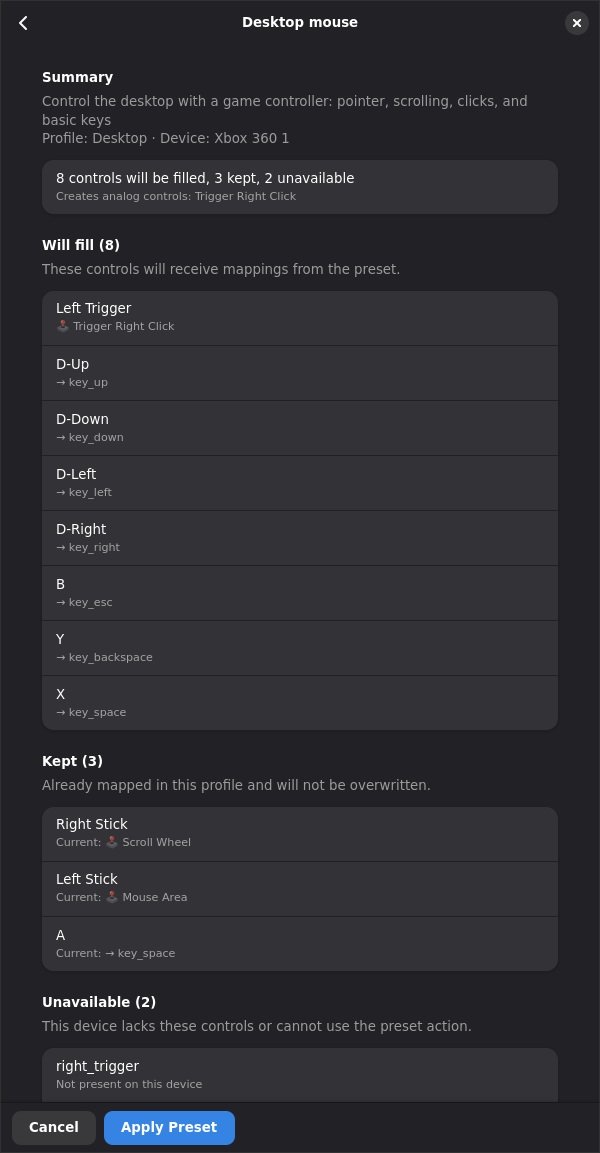
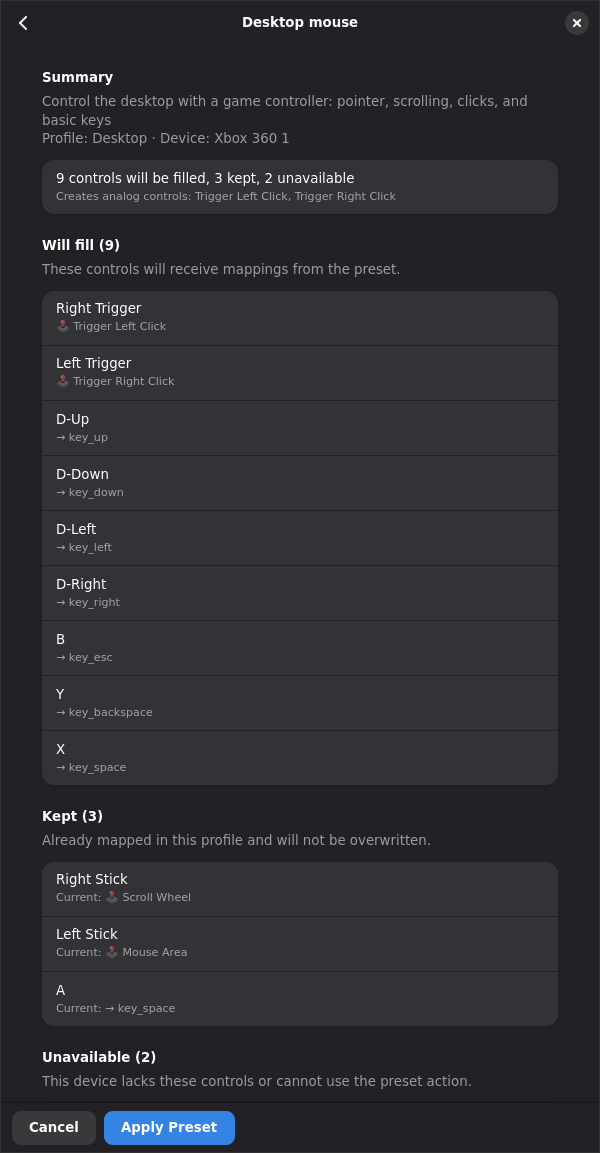
Map the right trackpad in the Desktop mouse preset and tidy the preview
The bundled preset maps right_trackpad to an embedded Touchpad Mouse
analog control, which the Steam Deck hardware preset provides.

The preview lists unavailable controls in one row per reason, with
readable names for controls the device lacks.

The screenshot fixture pad gains a right trigger.

diff --git a/tests/session/test_presets.py b/tests/session/test_presets.py
@@ -7,6 +7,7 @@ from keymasq.common.model.actions import MappingAction
 from keymasq.common.model.analog import AnalogControlConfig, AnalogMouseMotionConfig
 from keymasq.common.model.core import ActionType, DeviceType
 from keymasq.common.model.hardware import (
+    AnalogAxisDefinition,
     AnalogInputDefinition,
     ButtonDefinition,
     EvdevDevice,
@@ -14,6 +15,7 @@ from keymasq.common.model.hardware import (
 )
 from keymasq.common.model.profiles import ProfileConfig
 from keymasq.session.analog_controls import AnalogControlManager
+from keymasq.session.hardware_presets import apply_hardware_preset, load_hardware_presets
 from keymasq.session.presets import (
     apply_preset,
     load_presets,
@@ -257,6 +259,56 @@ def test_every_bundled_preset_loads():
 
     assert bundled
     assert sorted(p.preset_id for p in load_presets([paths.BUNDLED_PRESETS_DIR])) == bundled
+
+
+def test_bundled_desktop_preset_fills_the_controls_of_the_bundled_steam_deck_layout(
+    temp_config_dir,
+):
+    hardware = HardwareConfig(
+        "28de",
+        "1205",
+        "Steam Deck",
+        [EvdevDevice("/dev/input/event0", DeviceType.GAMEPAD, "pad")],
+        [ButtonDefinition(id="btn_south", label="A", evdev="btn_south", source="pad")],
+        analog_inputs=[
+            AnalogInputDefinition(
+                id=f"hat_{index}",
+                label=f"Hat {index + 1}",
+                type="stick",
+                source="pad",
+                axes=[
+                    AnalogAxisDefinition("x", f"abs_hat{index}x", minimum=low, maximum=32767),
+                    AnalogAxisDefinition("y", f"abs_hat{index}y", minimum=low, maximum=32767),
+                ],
+            )
+            for index, low in enumerate((-32767, -32767, 0))
+        ],
+    )
+    deck_layout = load_hardware_presets([paths.BUNDLED_HARDWARE_PRESETS_DIR])[0]
+    apply_hardware_preset(deck_layout, hardware)
+    desktop = next(
+        preset
+        for preset in load_presets([paths.BUNDLED_PRESETS_DIR])
+        if preset.preset_id == "gamepad-desktop-mouse"
+    )
+
+    plan = _apply(desktop, ProfileConfig(name="Desk"), hardware)
+
+    assert {
+        source: action.analog_control_name
+        for source, action in plan.mappings.items()
+        if action.action_type == ActionType.ANALOG_CONTROL
+    } == {
+        "right_trackpad": "Touchpad Mouse",
+        "left_trigger": "Trigger Right Click",
+        "right_trigger": "Trigger Left Click",
+    }
+    touchpad = AnalogControlManager().get_analog_control("Touchpad Mouse")
+    assert touchpad is not None
+    assert (touchpad.mouse_motion.mode, touchpad.mouse_motion.area_input_style) == (
+        "area",
+        "touchpad",
+    )
 
 
 def test_presets_are_offered_by_device_type_and_model_with_model_specific_first(tmp_path):

diff --git a/keymasq/gui/widgets/device_tab/preset_dialog.py b/keymasq/gui/widgets/device_tab/preset_dialog.py
@@ -1,6 +1,7 @@
 from __future__ import annotations
 
 import copy
+import re
 from collections.abc import Callable
 
 import gi
@@ -10,6 +11,7 @@ gi.require_version("Adw", "1")
 
 from gi.repository import Adw, GLib, Gtk  # pyright: ignore[reportAttributeAccessIssue]
 
+from keymasq.common.controller_capabilities import controller_control_label
 from keymasq.common.model.analog import AnalogControlConfig
 from keymasq.common.model.hardware import HardwareConfig
 from keymasq.common.model.profiles import DeviceProfileLayer
@@ -56,8 +58,11 @@ def _hardware_control_labels(hardware: HardwareConfig) -> dict[str, str]:
     return labels
 
 
-def preset_control_label(hardware: HardwareConfig, source_id: str) -> str:
-    return _hardware_control_labels(hardware).get(source_id, source_id)
+def _missing_control_label(source_id: str) -> str:
+    hat = re.fullmatch(r"hat_(\d+)", source_id)
+    if hat is not None:
+        return f"Hat {int(hat.group(1)) + 1}"
+    return controller_control_label(source_id)
 
 
 def empty_plan_summary(plan: PresetPlan) -> str:
@@ -297,15 +302,17 @@ class ApplyPresetDialog(Adw.Dialog):
                 title=f"Unavailable ({len(plan.unavailable)})",
                 description="This device lacks these controls or cannot use the preset action.",
             )
+            reasons: dict[str, list[str]] = {}
             for source_id in plan.unavailable:
-                subtitle = (
+                label = control_labels.get(source_id)
+                reason = (
                     "Incompatible action for this control"
-                    if source_id in control_labels
+                    if label is not None
                     else "Not present on this device"
                 )
-                unavailable_group.add(
-                    _action_row(control_labels.get(source_id, source_id), subtitle)
-                )
+                reasons.setdefault(reason, []).append(label or _missing_control_label(source_id))
+            for reason, labels in reasons.items():
+                unavailable_group.add(_action_row(reason, ", ".join(labels)))
             page.add(unavailable_group)
 
         toolbar.set_content(page)

diff --git a/nix/docshots/seed.py b/nix/docshots/seed.py
@@ -498,6 +498,13 @@ def _seed_hardware(config_dir: Path, devices: Json) -> None:
                             "source": "joystick",
                             "axes": [{"role": "value", "evdev": "abs_z"}],
                         },
+                        {
+                            "id": "right_trigger",
+                            "label": "Right Trigger",
+                            "type": "axis",
+                            "source": "joystick",
+                            "axes": [{"role": "value", "evdev": "abs_rz"}],
+                        },
                     ],
                 },
             }

diff --git a/tests/gui/test_apply_preset_gui.py b/tests/gui/test_apply_preset_gui.py
@@ -351,8 +351,8 @@ def test_preview_shows_fill_kept_unavailable_and_writes_only_on_confirm(
     assert "B Button" in preview_text
     assert "Right Stick" in preview_text
     assert "A Button" in preview_text
-    assert "btn_mode" in preview_text
-    assert "Left Trigger" in preview_text
+    assert "Not present on this device\nGuide" in preview_text
+    assert "Incompatible action for this control\nLeft Trigger" in preview_text
 
     saved_before = ProfileManager().get_profile("Desk")
     assert saved_before is not None

diff --git a/docs/presets.md b/docs/presets.md
@@ -11,7 +11,15 @@ freely, with no ongoing link to the preset file.
 
 Keymasq ships with a bundled **Desktop mouse** preset
 (`gamepad-desktop-mouse.toml`) that turns a game controller into a desktop
-pointer, scroll wheel, click, arrow-key, and basic key layout.
+pointer, scroll wheel, click, arrow-key, and basic key layout. On a controller
+with a right trackpad, such as the Steam Deck set up with its
+[hardware preset](hardware-presets.md), the trackpad moves the pointer like a
+laptop touchpad.
+
+A preset lists more controls than any single controller has. The D-pad, for
+example, appears as buttons and as a hat, because controllers report it one way
+or the other. The preview shows the controls your device lacks under
+**Unavailable**, which is expected.
 
 ## Applying a preset in the GUI
 
